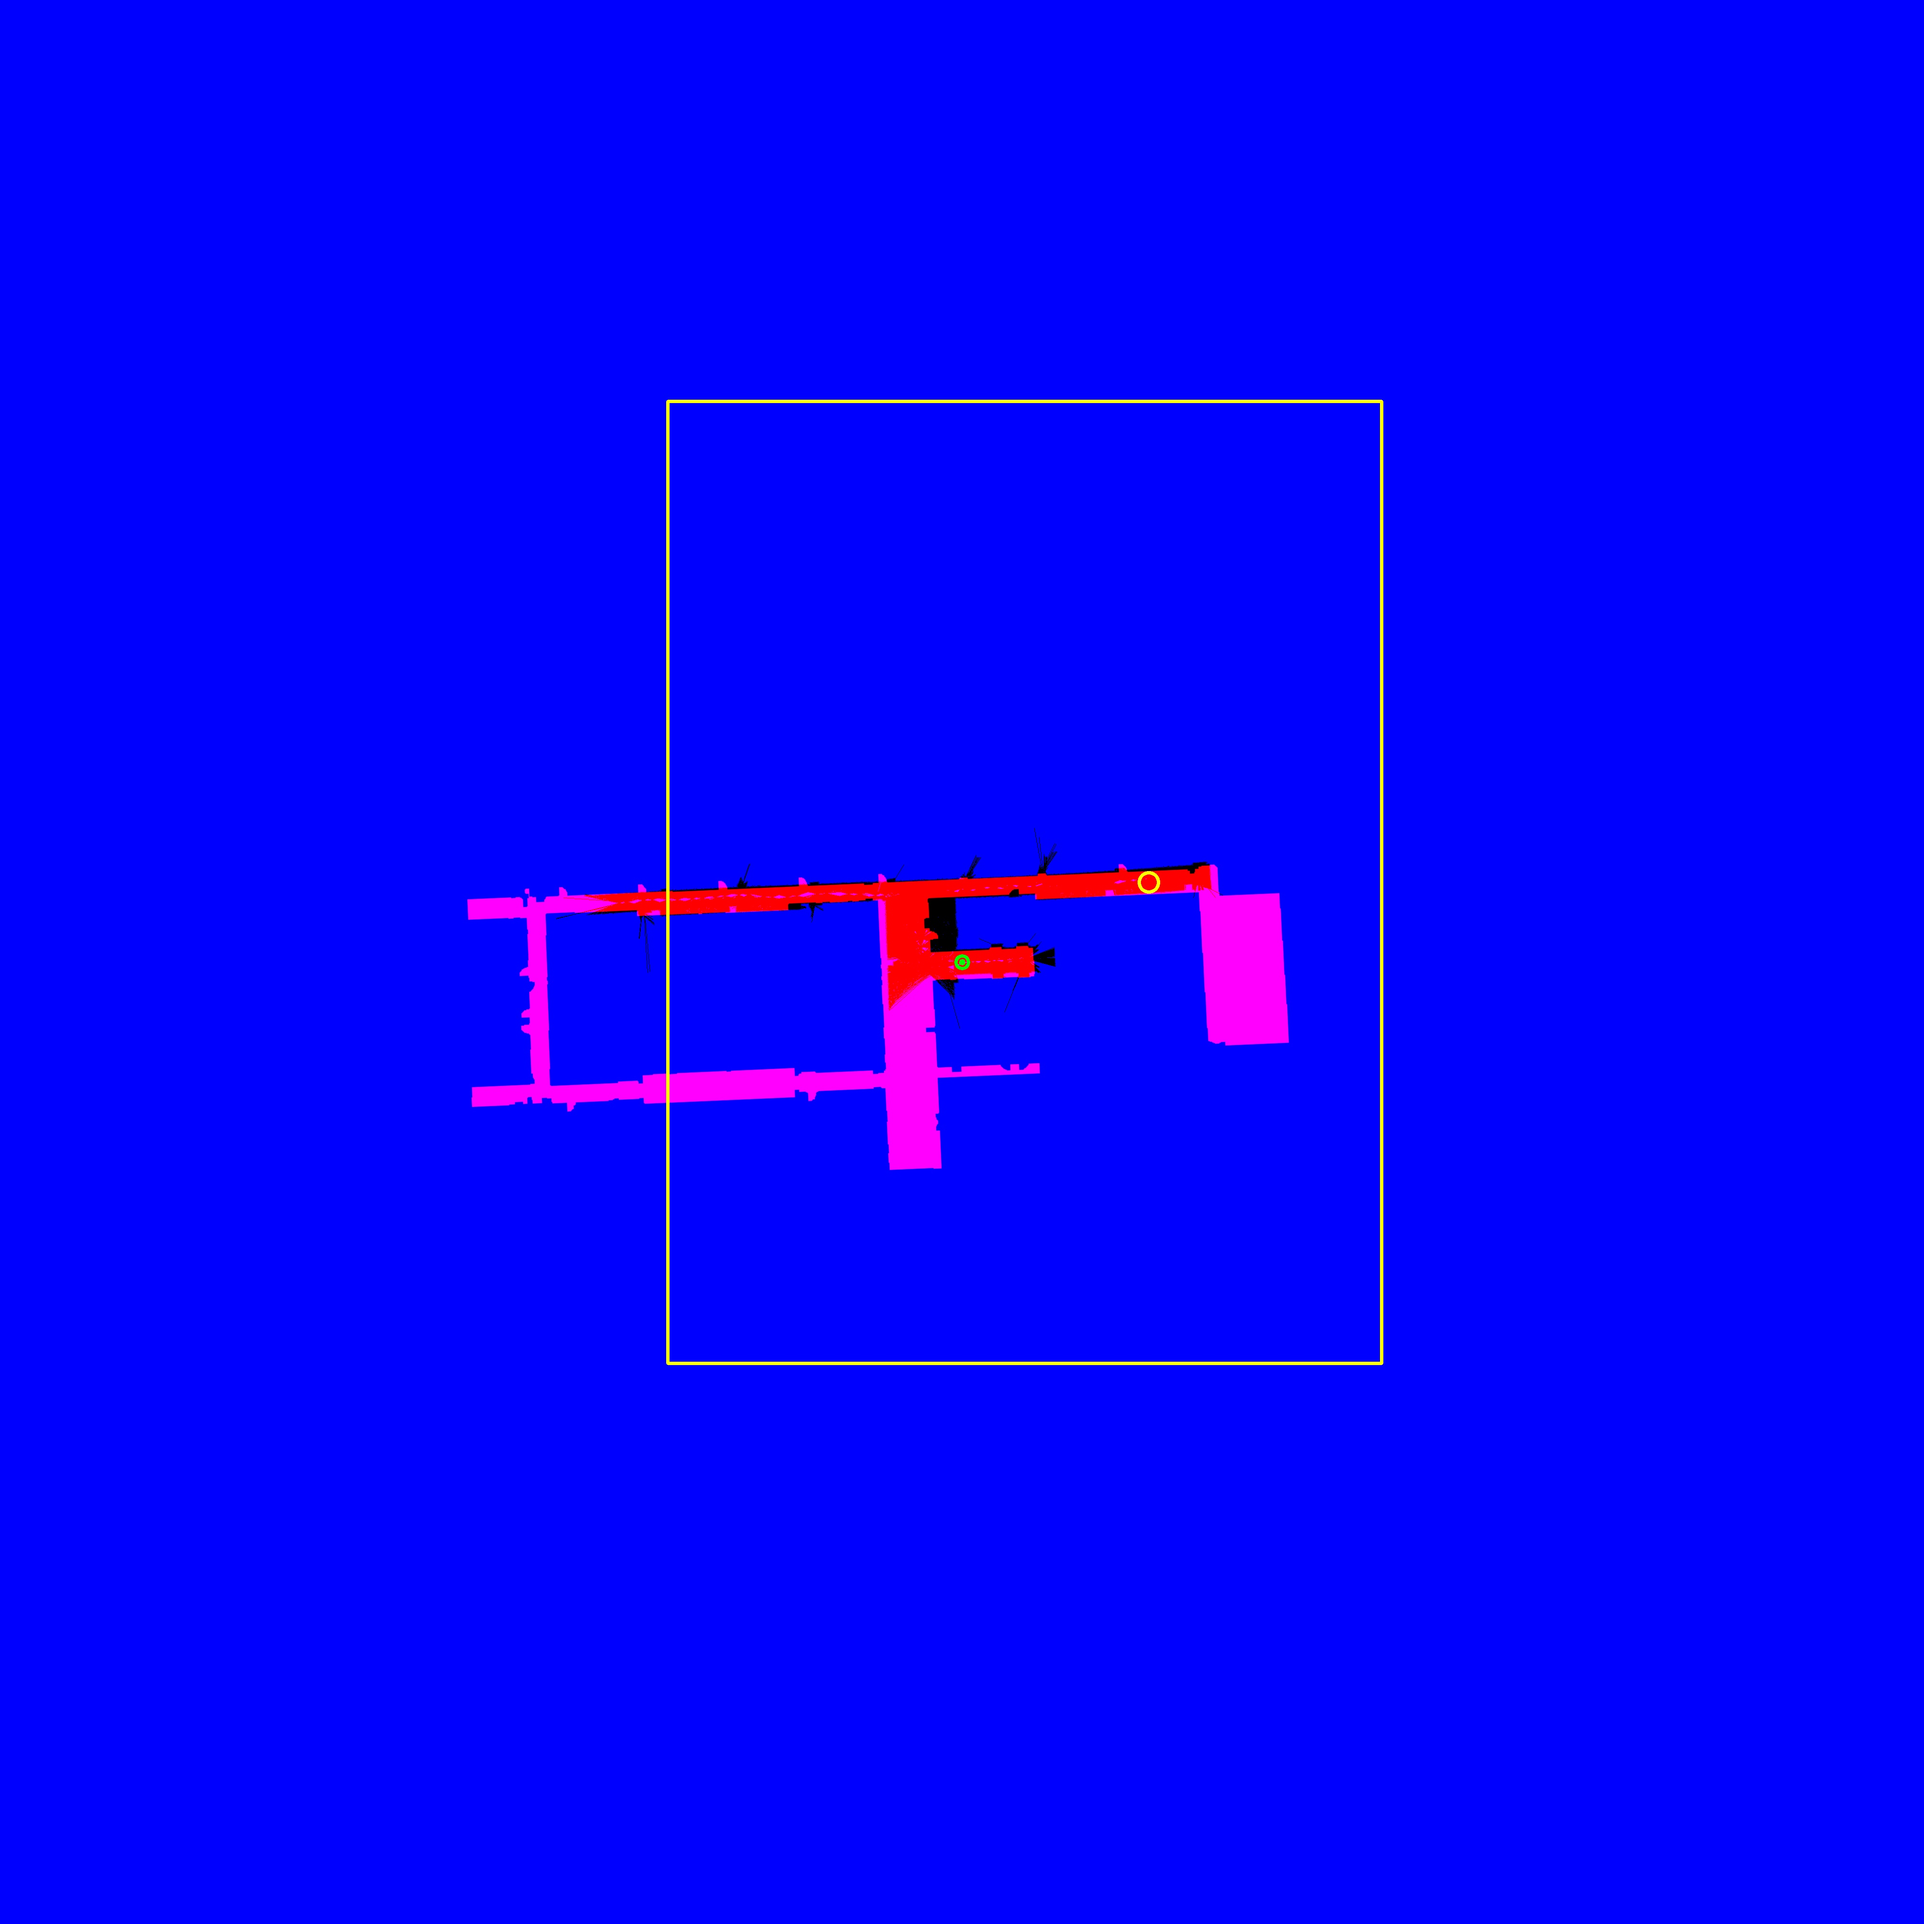
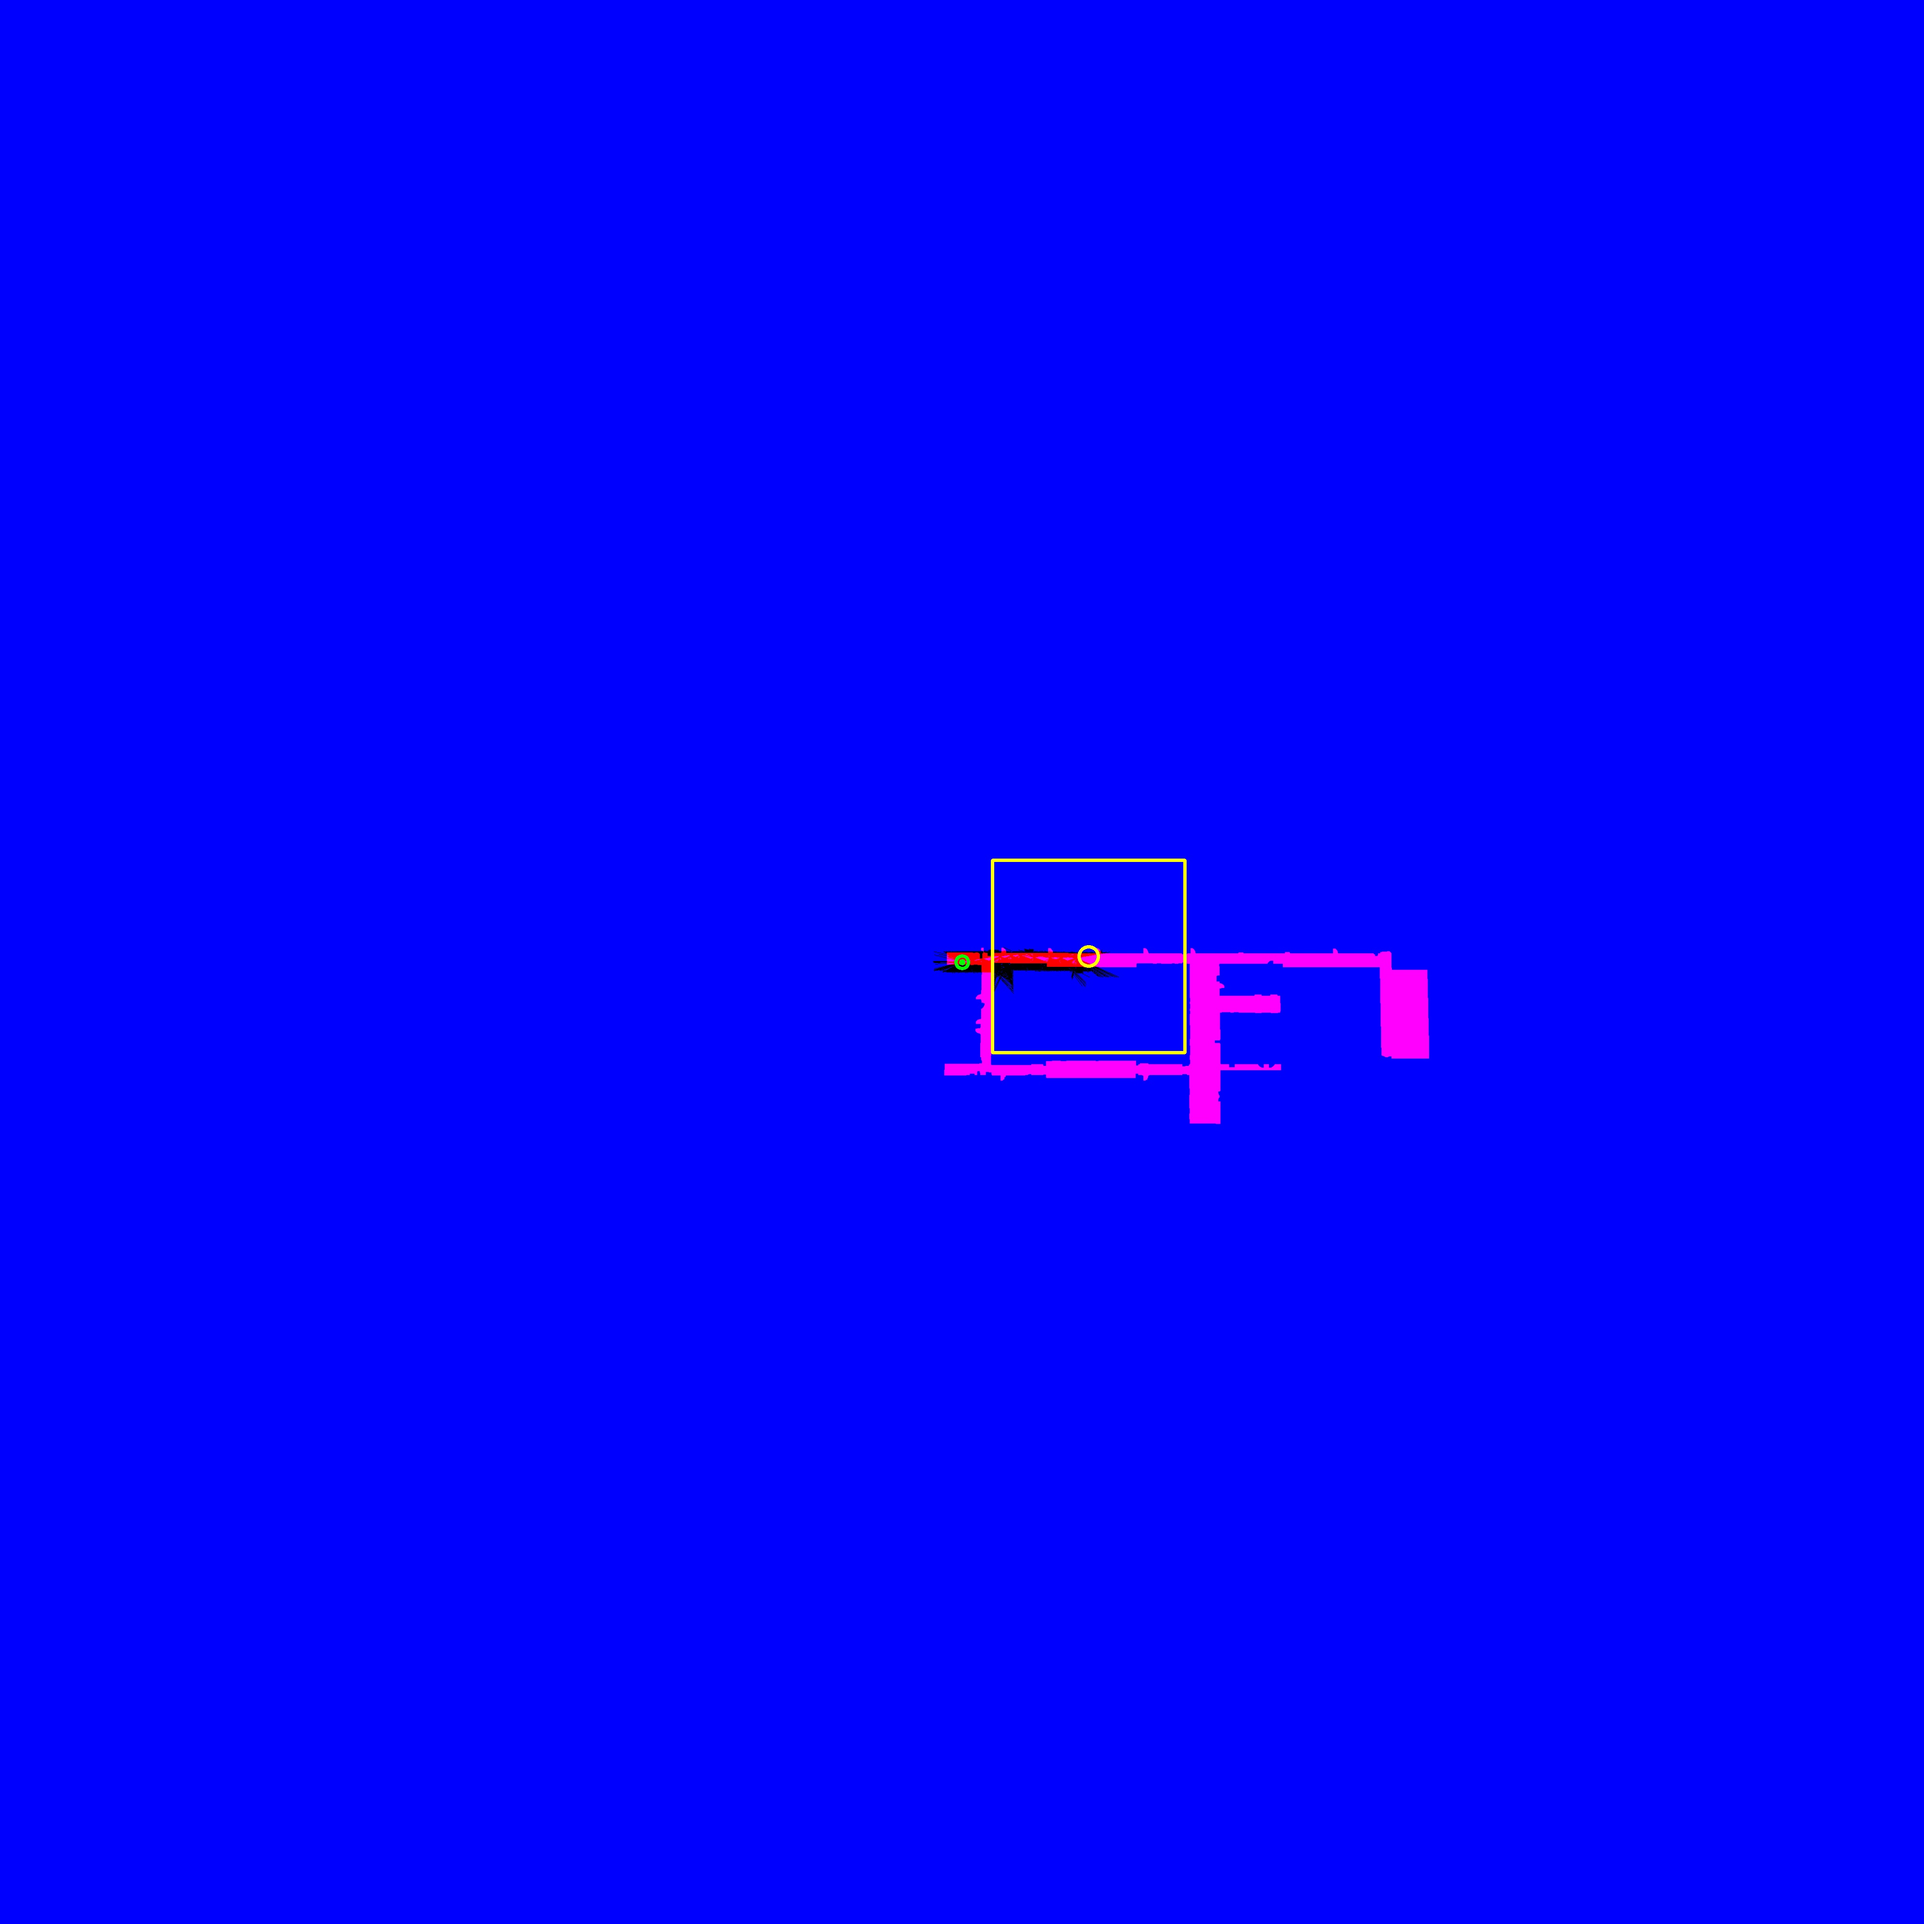
全程测试开始

Changed region(s): [[0.25, 0.4375, 0.75, 0.625], [0.6875, 0.6875, 0.7188, 0.7188], [0.3438, 0.6875, 0.375, 0.7188]]

diff --git a/map_deal/script/corridorRecog/scale_node.py b/map_deal/script/corridorRecog/scale_node.py
@@ -383,7 +383,7 @@ def main():
             mt.showRelation()
             mt.compareCost()
             mt.autoMatch(3, 100)
-            mt.showRelation(maps[id] + "_" + mt.resize_scale.__str__())
+            mt.showRelation(maps[id] + "_scale" + mt.resize_scale.__str__() + "_rot" + mt.rotate_angle.__str__())
 
             state_auto = auto
 

diff --git a/map_deal/script/corridorRecog/ClassModule.py b/map_deal/script/corridorRecog/ClassModule.py
@@ -64,7 +64,7 @@ class mapMatcher(object):
 
         # the switch for local_matching mode
         self.local_mode = True
-        self.sideLength = 1000
+        self.sideLength = 200
         self.local_center = tuple(self.small2big(self.smallstart))
         self.local_center_smallmap = self.smallstart
 
